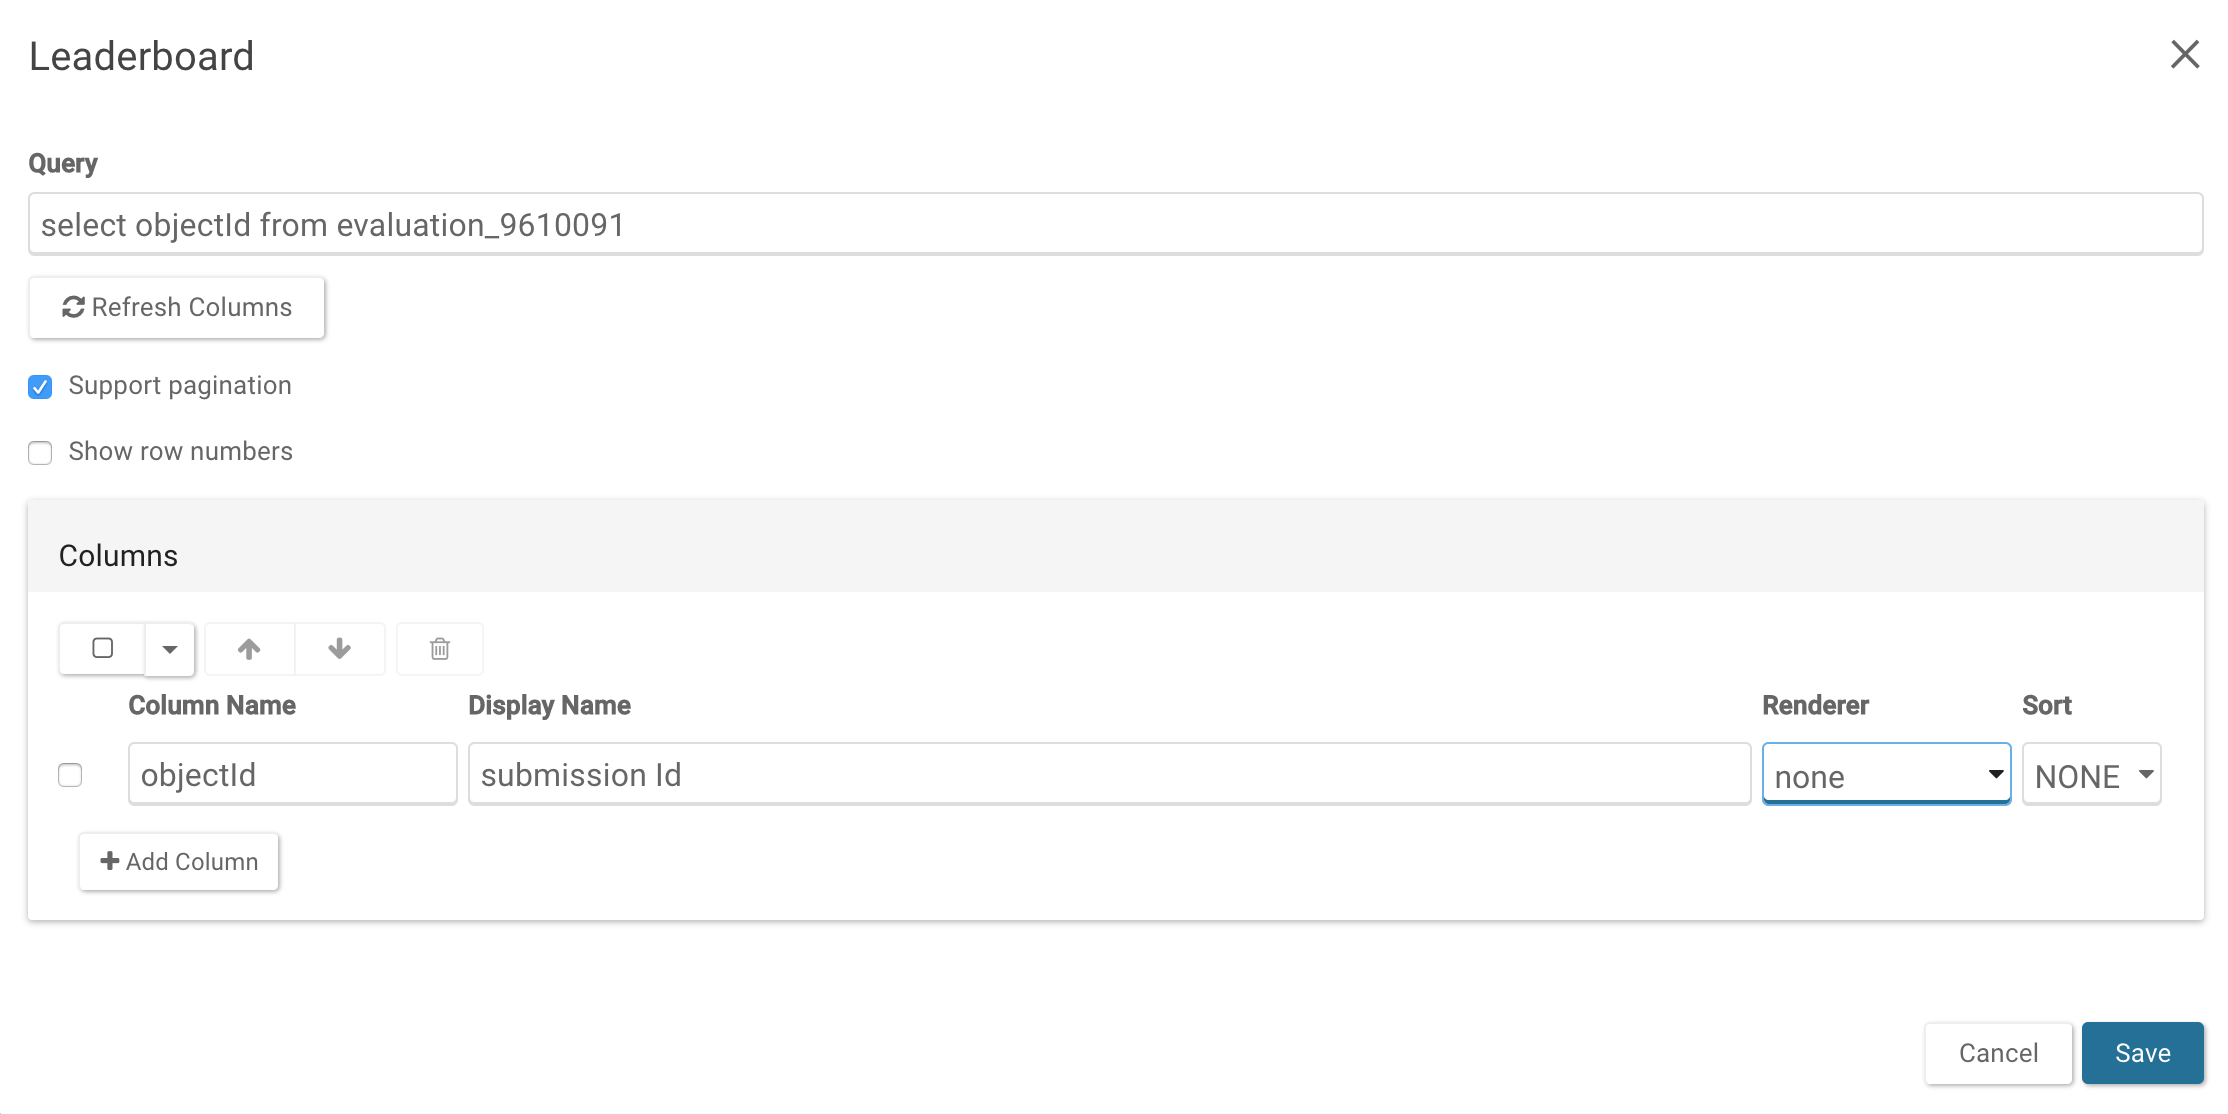
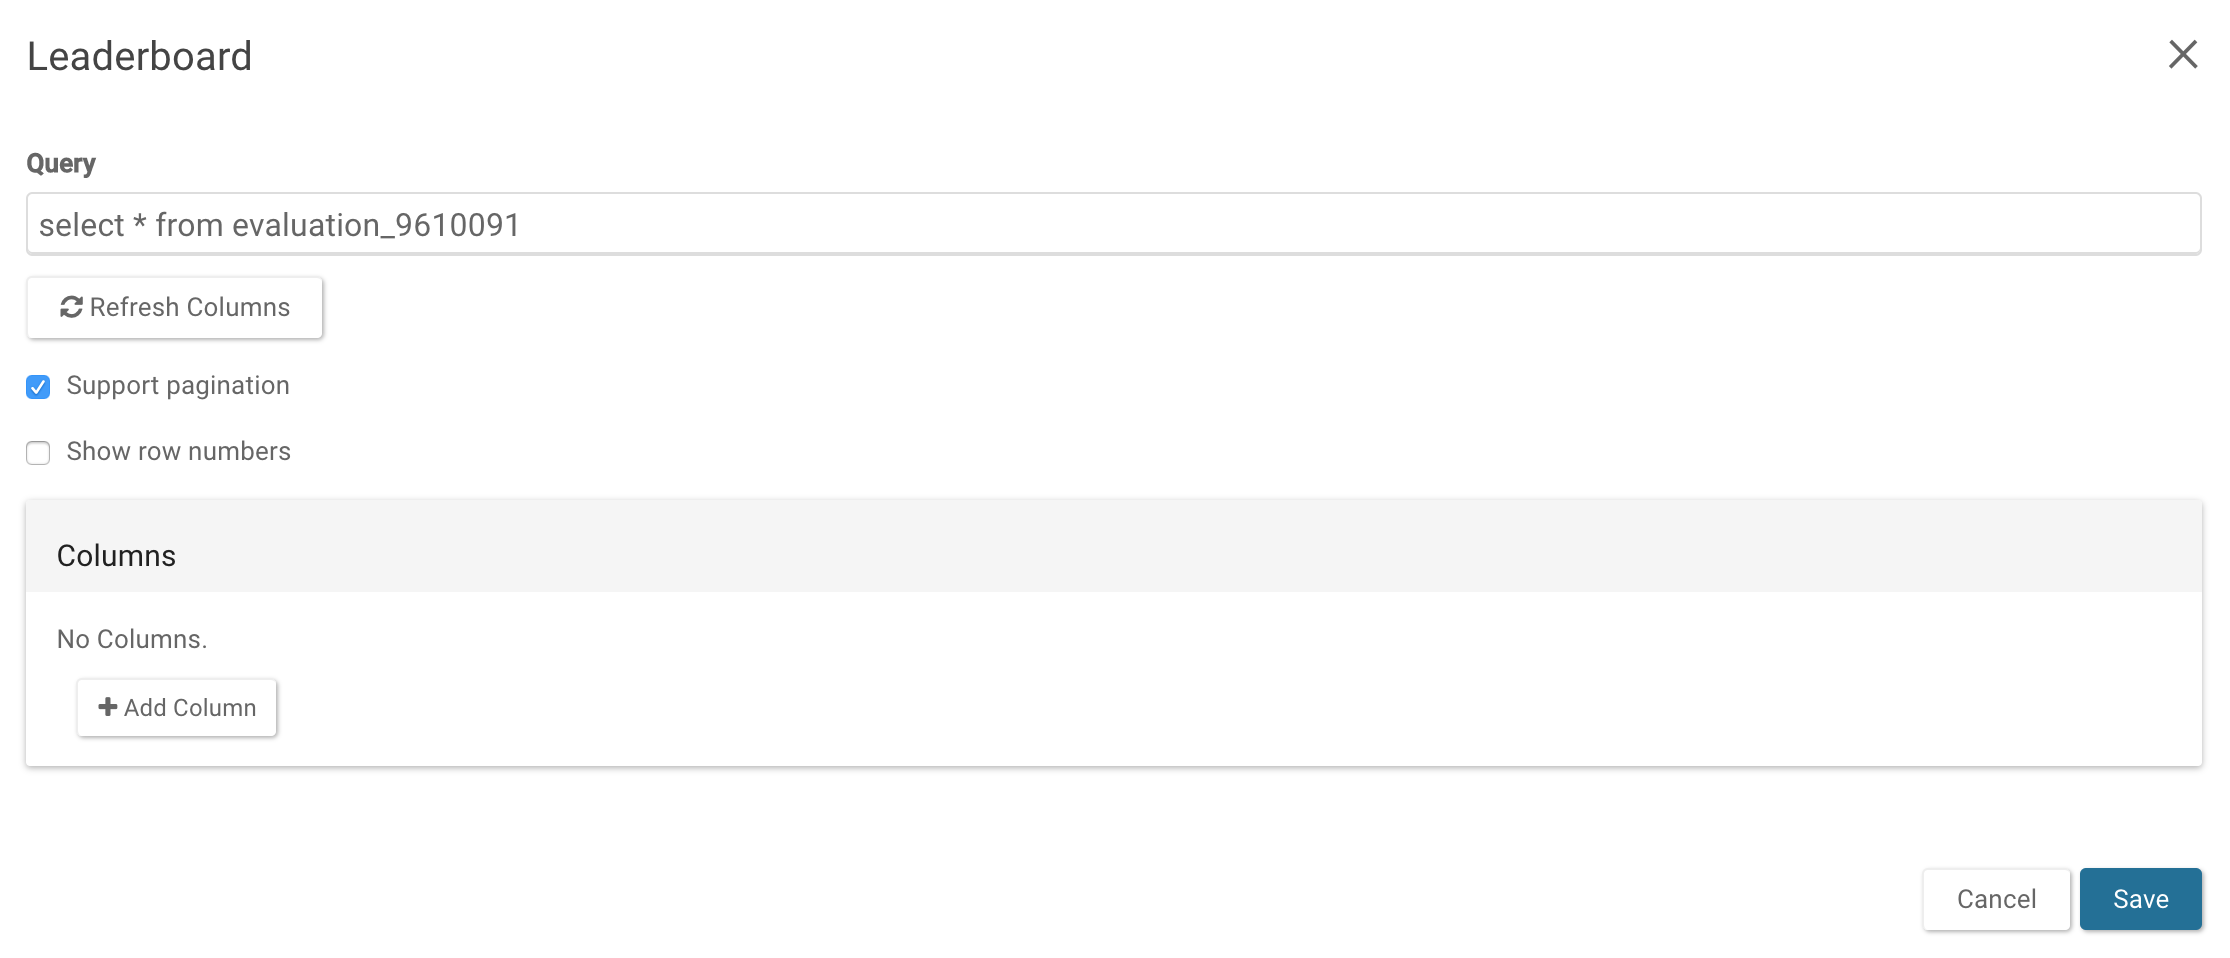
Add in leaderboard descriptions

diff --git a/articles/evaluation_queues.md b/articles/evaluation_queues.md
@@ -101,10 +101,14 @@ All submissions of an evaluation queue can be views through the use of leaderboa
 
 <img style="width: 80%;" src="/assets/images/add_leaderboard_widget.png">
 
-
+Once you click on **Leaderboard**, the below screen will pop up without any values.  You will have to input your own query statement such as `select * from evaluation_9610091`.  To view all the columns available, click **Refresh Columns**.
 <img style="width: 80%;" src="/assets/images/configure_leaderboard_widget.png">
 
+Clicking **Refresh Columns** will add these default columns.
+<img style="width: 80%;" src="/assets/images/leaderboard_columns.png">
 
+
+If you are happy with your leaderboard configurations, save both the configurations and the wiki page and you will see something like this. 
 <img style="width: 80%;" src="/assets/images/leaderboard_on_wiki.png">
 
 
